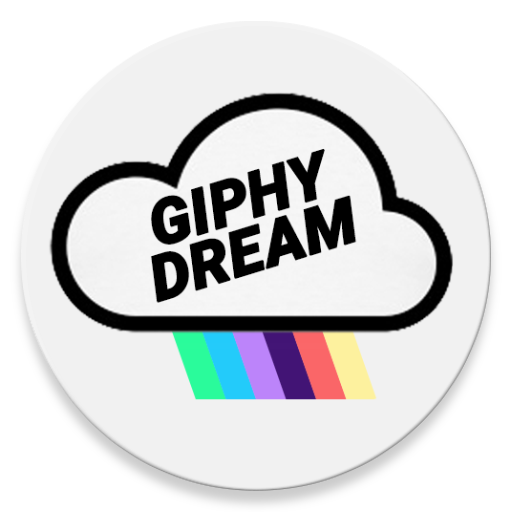
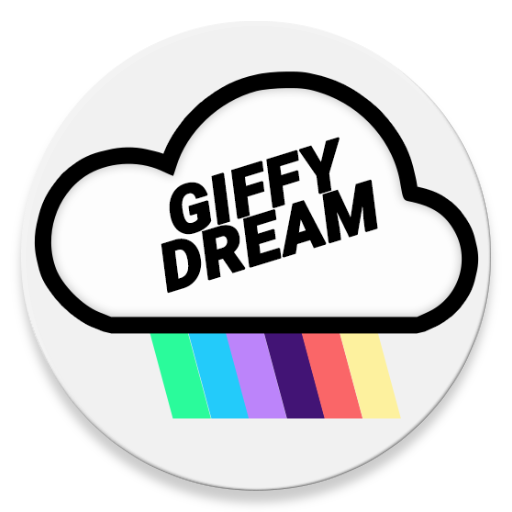
change name to GiffyDream

Changed region(s): [[0.0625, 0.125, 0.9375, 0.8438]]

diff --git a/app/src/main/java/com/benjy3gg/giphydream/GiphyView.java b/app/src/main/java/com/benjy3gg/giphydream/GiphyView.java
@@ -52,6 +52,7 @@ public class GiphyView extends PercentRelativeLayout implements SimpleCallback {
     private Handler mHandler;
     private int mCounterPlayed = 0;
     private int mCounterDownloaded = 0;
+    private boolean mFirstLoaded = false;
 
     public GiphyView(Context context) {
         super(context);
@@ -166,6 +167,7 @@ public class GiphyView extends PercentRelativeLayout implements SimpleCallback {
 
     @Override
     public void onNewGif(final GifDrawableEx drawable, final String caption) {
+        mFirstLoaded = true;
         Log.d(TAG, "onNewGif");
         /*if(mDrawable != null) {
             mDrawable.stop();
@@ -189,7 +191,7 @@ public class GiphyView extends PercentRelativeLayout implements SimpleCallback {
     @Override
     public void onSetNewGif() {
         Log.d(TAG, "onNewGif");
-        if (mLoadingView.getAlpha() > 0) {
+        if (mLoadingView.getAlpha() > 0 && mFirstLoaded) {
             mLoadingView
                     .animate()
                     .alpha(0)

diff --git a/README.md b/README.md
@@ -1,19 +1,19 @@
-# GiphyDream
-![alt text](https://github.com/benjy3gg/GiphyDream/blob/master/icon/web_hi_res_512.png "powered by Giphy")
+# GiffyDream
+![alt text](https://github.com/benjy3gg/GiffyDream/blob/master/icon/web_hi_res_512.png "powered by Giphy")
 
 [![API](https://img.shields.io/badge/API-17%2B-brightgreen.svg?style=flat)](https://android-arsenal.com/api?level=17)
-[![Build Status](https://travis-ci.org/benjy3gg/GiphyDream.svg?branch=master)](https://travis-ci.org/benjy3gg/GiphyDream) 
-[![License](https://img.shields.io/:license-gpl%20v3-brightgreen.svg?style=flat)](https://raw.githubusercontent.com/benjy3gg/GiphyDream/master/LICENSE)
+[![Build Status](https://travis-ci.org/benjy3gg/GiffyDream.svg?branch=master)](https://travis-ci.org/benjy3gg/GiffyDream)
+[![License](https://img.shields.io/:license-gpl%20v3-brightgreen.svg?style=flat)](https://raw.githubusercontent.com/benjy3gg/GiffyDream/master/LICENSE)
 
 A Daydream (or screensaver) for Android pulling GIFs from Giphy.com.
 
 The GIFs are hosted by Giphy.com.
 
-![alt text](https://github.com/benjy3gg/GiphyDream/blob/master/PoweredBy_200px-White_HorizLogo.png "powered by Giphy")
+![alt text](https://github.com/benjy3gg/GiffyDream/blob/master/PoweredBy_200px-White_HorizLogo.png "powered by Giphy")
 
 ## Set-up
 - Go into the System Preferences
 - Select Display
 - Select Daydream
-- Select GiphyDream
+- Select GiffyDream
 - You can select different tags in the Settings
